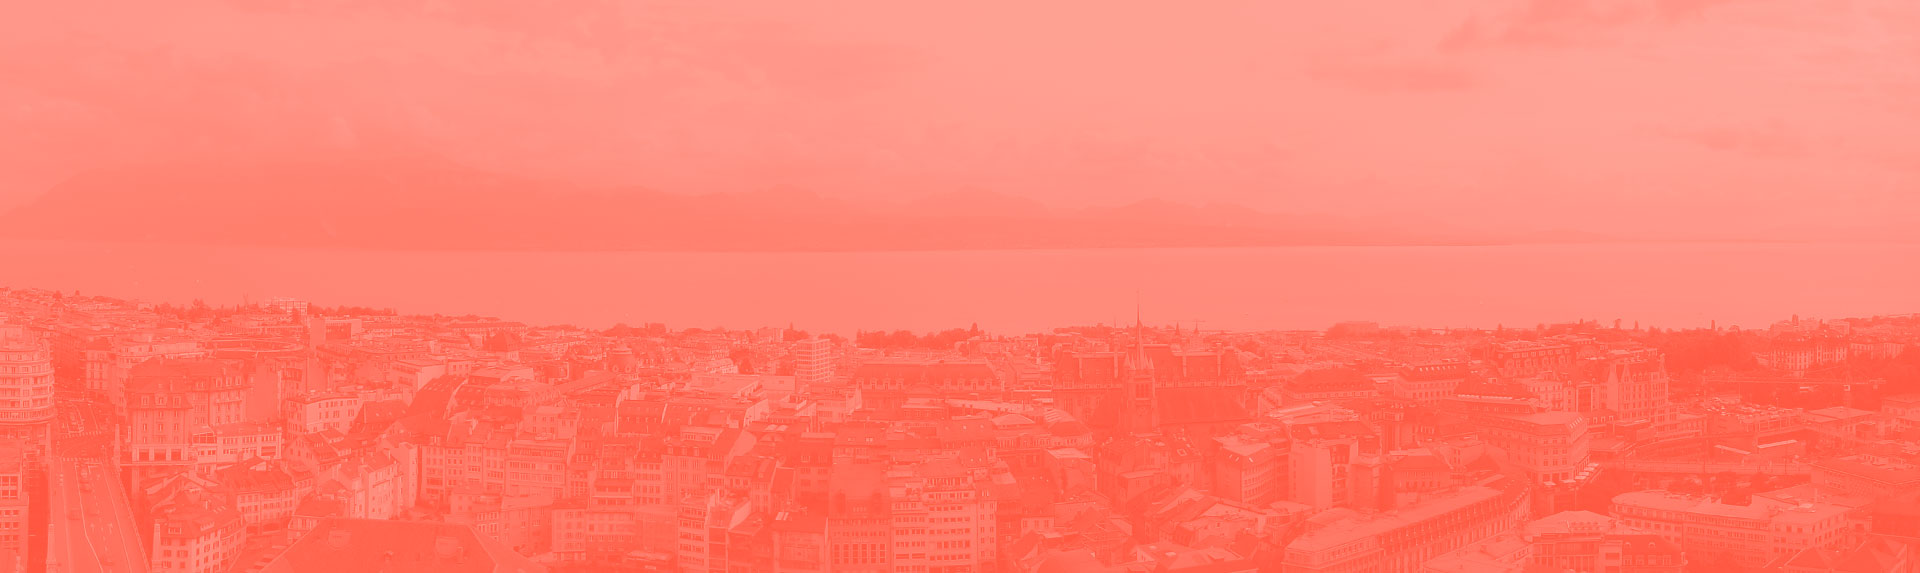
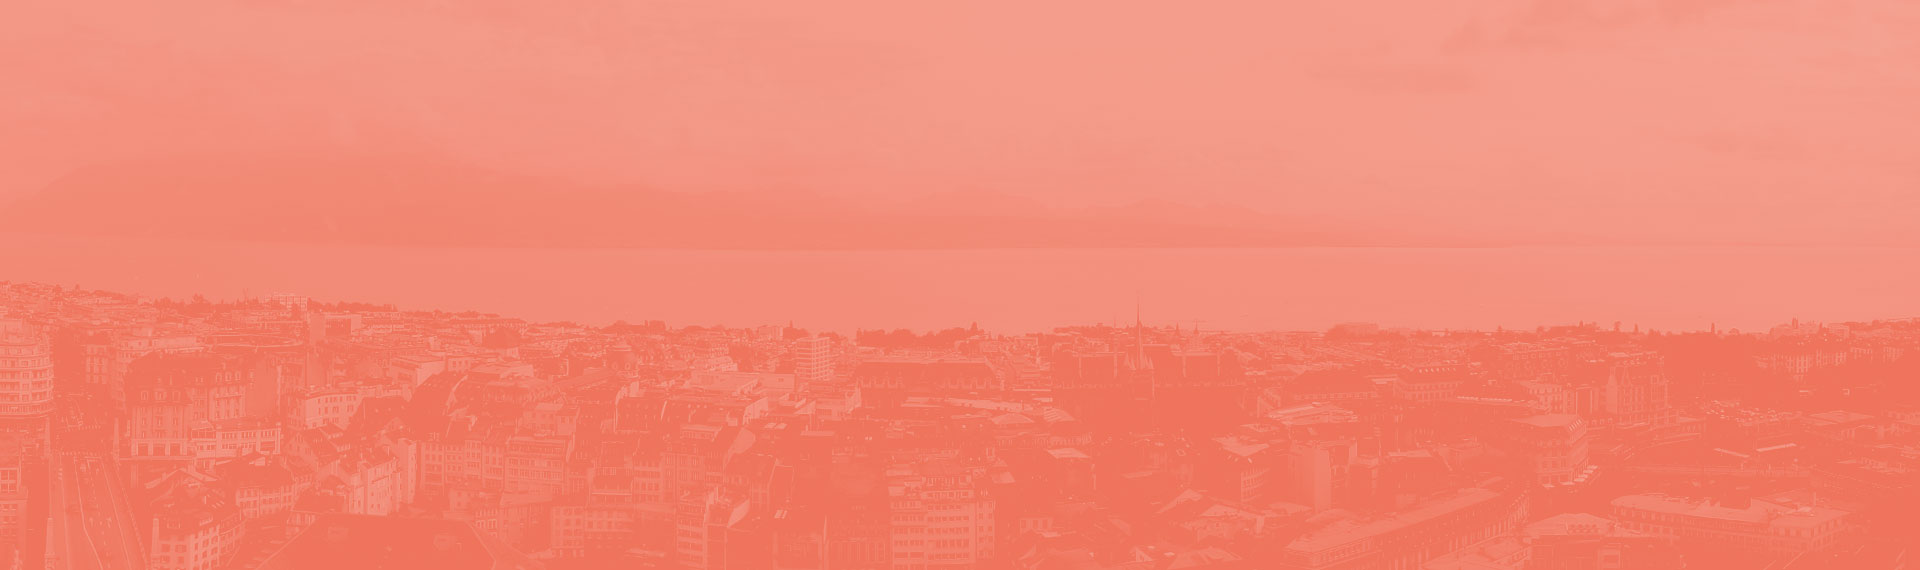
add header home style

diff --git a/uxlausanne/assets/css/uxlausanne.css b/uxlausanne/assets/css/uxlausanne.css
@@ -298,11 +298,11 @@ img {
   border-radius: 4px;
 }
 .img-thumbnail {
-  padding: 4px;
+  padding: 1px;
   line-height: 1.428571429;
   background-color: #ffffff;
-  border: 1px solid #dddddd;
-  border-radius: 3px;
+  border: 1px solid #323c4f;
+  border-radius: 0;
   -webkit-transition: all 0.2s ease-in-out;
   transition: all 0.2s ease-in-out;
   display: inline-block;
@@ -2733,12 +2733,12 @@ input[type="button"].btn-block {
 }
 .thumbnail {
   display: block;
-  padding: 4px;
+  padding: 1px;
   margin-bottom: 20px;
   line-height: 1.428571429;
   background-color: #ffffff;
-  border: 1px solid #dddddd;
-  border-radius: 3px;
+  border: 1px solid #323c4f;
+  border-radius: 0;
   -webkit-transition: all 0.2s ease-in-out;
   transition: all 0.2s ease-in-out;
 }
@@ -3351,7 +3351,7 @@ Inner-isolated put 20px padding top/bottom inside element
 ## On Grey background
 ````
 <div class="on-grey">
- <p>Lorem ipsum dolor sit amet, consectetur adipisicing elit. Excepturi, nostrum, quis, beatae, nesciunt reprehenderit odit similique distinctio <a href="#">recusandae facilis nam</a> quisquam tempora ullam quo voluptatum cum laboriosam sit. Molestiae, porro.</p>
+  <p>Lorem ipsum dolor sit amet, consectetur adipisicing elit. Excepturi, nostrum, quis, beatae, nesciunt reprehenderit odit similique distinctio <a href="#">recusandae facilis nam</a> quisquam tempora ullam quo voluptatum cum laboriosam sit. Molestiae, porro.</p>
 </div>
 ````
 */
@@ -3362,7 +3362,21 @@ Inner-isolated put 20px padding top/bottom inside element
 ## On Dark background
 ````
 <div class="on-dark">
- <p>Lorem ipsum dolor sit amet, consectetur adipisicing elit. Excepturi, nostrum, quis, beatae, nesciunt reprehenderit odit similique distinctio <a href="#">recusandae facilis nam</a> quisquam tempora ullam quo voluptatum cum laboriosam sit. Molestiae, porro.</p>
+  <div class="row">
+    <div class="col-xs-12">
+      <h2 class="text-center isolated">What is UX Lausanne</h2>
+    </div>
+  </div>
+  <div class="row">
+    <div class="col-sm-4">
+      <p class="lead">UX Lausanne is the first Western Switzerland event dedicated exclusively to User Experience Design & how to design delightful user experiences.</p>
+    </div>
+    <div class="col-sm-8">
+      <p>After 2 years of monthly UXRomandie meetups, UX Lausanne will take place for the first time in 2014.</p>
+      <p>The 2 day format will bring together local & international UX professionals to share knowledge and gain expertise in the User Experience field.</p>
+      <p>The conference will be held at Arsenic Theater, one of Lausanne's most vibrant cultural spots.</p>
+    </div>
+  </div>
 </div>
 ````
 */
@@ -3488,6 +3502,15 @@ h6 {
     font-size: 14px;
   }
 }
+.lead {
+  font-size: 15px;
+  line-height: 1.4;
+}
+@media (min-width: 768px) {
+  .lead {
+    font-size: 18.2px;
+  }
+}
 /* 
 ## Link
 ````
@@ -3555,7 +3578,7 @@ hr.short {
 */
 .logo {
   background: url("../img/logo_uxls_grey.svg") 0 0 no-repeat;
-  display: block;
+  display: inline-block;
   width: 160px;
   height: 60px;
   border-bottom: none;
@@ -3563,6 +3586,11 @@ hr.short {
 }
 .logo strong {
   display: none;
+}
+.logo-big {
+  background-image: url("../img/logo_uxls_white_big.svg");
+  width: 400px;
+  height: 120px;
 }
 /*
 ## Page title section 
@@ -3582,6 +3610,25 @@ hr.short {
 }
 h5 + h5 {
   margin-top: 0;
+}
+/*
+## Homepage header
+````
+<section class="on-pink photoed text-center inner-isolated">
+  <p><small><a href="#">:ratio</a> & <a href="#">UXRomandie</a> present</small></p>
+  <div class="logo logo-big"><strong>UX Lausanne 2014</strong></div>
+  <h4>Creating delightful User Experiences</h4>
+  <h6>2 days - 8 talks - 8 workshops</h6>
+  <h3>May 22–23, 2014</h3>
+  <a href="#">@ Arsenic - Lausanne, Switzerland</a>
+</section>  
+````
+*/
+.photoed {
+  background-image: url('../img/banner.jpg');
+  background-position: 50% 50%;
+  background-repeat: no-repeat;
+  background-size: cover;
 }
 /*
 # Navigation

diff --git a/uxlausanne/assets/less/theme.less b/uxlausanne/assets/less/theme.less
@@ -27,7 +27,7 @@ body{
 ## On Grey background
 ````
 <div class="on-grey">
- <p>Lorem ipsum dolor sit amet, consectetur adipisicing elit. Excepturi, nostrum, quis, beatae, nesciunt reprehenderit odit similique distinctio <a href="#">recusandae facilis nam</a> quisquam tempora ullam quo voluptatum cum laboriosam sit. Molestiae, porro.</p>
+  <p>Lorem ipsum dolor sit amet, consectetur adipisicing elit. Excepturi, nostrum, quis, beatae, nesciunt reprehenderit odit similique distinctio <a href="#">recusandae facilis nam</a> quisquam tempora ullam quo voluptatum cum laboriosam sit. Molestiae, porro.</p>
 </div>
 ````
 */
@@ -39,7 +39,21 @@ body{
 ## On Dark background
 ````
 <div class="on-dark">
- <p>Lorem ipsum dolor sit amet, consectetur adipisicing elit. Excepturi, nostrum, quis, beatae, nesciunt reprehenderit odit similique distinctio <a href="#">recusandae facilis nam</a> quisquam tempora ullam quo voluptatum cum laboriosam sit. Molestiae, porro.</p>
+  <div class="row">
+    <div class="col-xs-12">
+      <h2 class="text-center isolated">What is UX Lausanne</h2>
+    </div>
+  </div>
+  <div class="row">
+    <div class="col-sm-4">
+      <p class="lead">UX Lausanne is the first Western Switzerland event dedicated exclusively to User Experience Design & how to design delightful user experiences.</p>
+    </div>
+    <div class="col-sm-8">
+      <p>After 2 years of monthly UXRomandie meetups, UX Lausanne will take place for the first time in 2014.</p>
+      <p>The 2 day format will bring together local & international UX professionals to share knowledge and gain expertise in the User Experience field.</p>
+      <p>The conference will be held at Arsenic Theater, one of Lausanne's most vibrant cultural spots.</p>
+    </div>
+  </div>
 </div>
 ````
 */

diff --git a/uxlausanne/assets/less/header.less b/uxlausanne/assets/less/header.less
@@ -8,7 +8,7 @@
 */
 .logo{
   background: url("../img/logo_uxls_grey.svg") 0 0 no-repeat;
-  display: block;
+  display: inline-block;
   width: 160px;
   height: 60px;
   border-bottom: none;
@@ -16,6 +16,11 @@
   strong{
     display: none;
   }
+}
+.logo-big{
+  background-image: url("../img/logo_uxls_white_big.svg");
+  width: 400px;
+  height: 120px;
 }
 
 /*
@@ -36,4 +41,24 @@
 }
 h5 + h5{
   margin-top: 0;
+}
+
+/*
+## Homepage header
+````
+<section class="on-pink photoed text-center inner-isolated">
+  <p><small><a href="#">:ratio</a> & <a href="#">UXRomandie</a> present</small></p>
+  <div class="logo logo-big"><strong>UX Lausanne 2014</strong></div>
+  <h4>Creating delightful User Experiences</h4>
+  <h6>2 days - 8 talks - 8 workshops</h6>
+  <h3>May 22–23, 2014</h3>
+  <a href="#">@ Arsenic - Lausanne, Switzerland</a>
+</section>  
+````
+*/
+.photoed{
+  background-image: url('../img/banner.jpg');
+  background-position: 50% 50%;
+  background-repeat: no-repeat;
+  background-size: cover;
 }

diff --git a/uxlausanne/assets/less/init.less b/uxlausanne/assets/less/init.less
@@ -1,8 +1,8 @@
 // Mixins
 .font-size(@sizeValue) {
-	@remValue: (@sizeValue/10);
-	@pxValue: (@sizeValue);
-	font-size: ~"@{pxValue}px"; 
+  @remValue: (@sizeValue/10);
+  @pxValue: (@sizeValue);
+  font-size: ~"@{pxValue}px"; 
   // font-size: ~"@{remValue}rem";
 }
 
@@ -17,8 +17,8 @@ Isolated put 20px over and under the element
 ````
 */
 .isolated{
-	margin-top: 20px;
-	margin-bottom: 20px;
+  margin-top: 20px;
+  margin-bottom: 20px;
 }
 
 
@@ -29,7 +29,7 @@ Inner-isolated put 20px padding top/bottom inside element
 ````
 */
 .inner-isolated{
-	padding-top: 20px;
-	padding-bottom: 20px;
+  padding-top: 20px;
+  padding-bottom: 20px;
 }
 

diff --git a/uxlausanne/assets/less/variables.less b/uxlausanne/assets/less/variables.less
@@ -45,6 +45,13 @@
 @border-radius-large:            4px;
 @border-radius-small:            2px;
 
+// Thumbnails
+// -------------------------
+@thumbnail-padding:           1px;
+@thumbnail-bg:                @body-bg;
+@thumbnail-border:            @ux_grey;
+@thumbnail-border-radius:     0;
+
 // Links
 // -------------------------
 

diff --git a/uxlausanne/assets/less/text.less b/uxlausanne/assets/less/text.less
@@ -46,7 +46,14 @@ h3, h2, h3, h4, h5, h6{
   h4{ .font-size(18); }
   h5{ .font-size(14); }
 }
+.lead {
+  font-size: floor(@font-size-base * 1.1);
+  line-height: 1.4;
 
+  @media (min-width: @screen-sm-min) {
+    font-size: (@font-size-base * 1.3);
+  }
+}
 
 
 /* 
